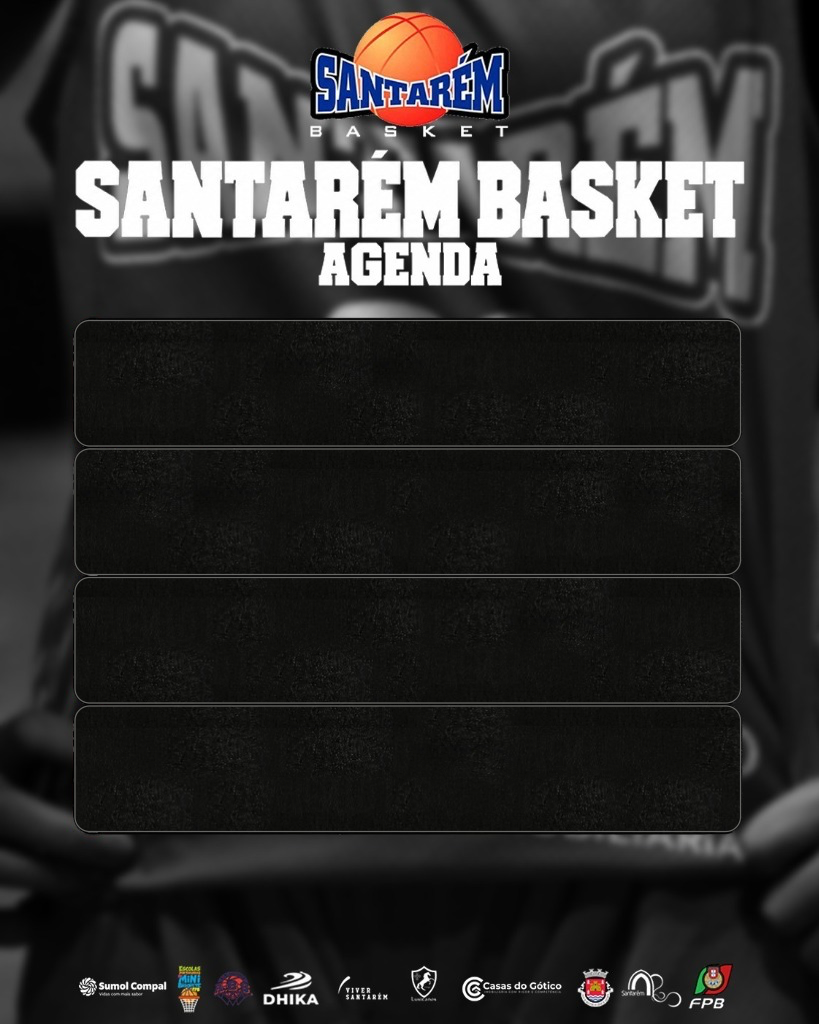
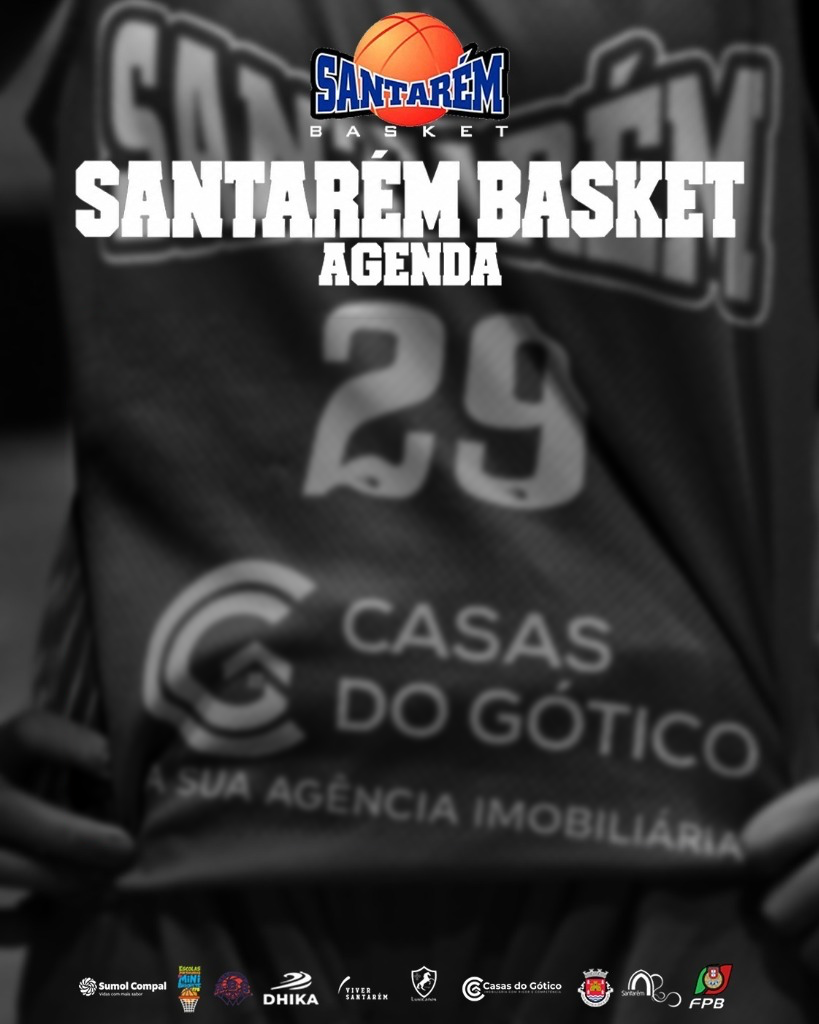
feat(posts-tool): reconstruct seamless Agenda background from source photo and remove empty trailing cards

diff --git a/posts-tool/js/renderer.js b/posts-tool/js/renderer.js
@@ -9,6 +9,7 @@ import { CONFIG } from './config.js';
 const TEMPLATE_URLS = {
   agenda: './assets/template-agenda-base.png',
   resultados: './assets/template-resultados-base.png',
+  cardTexture: './assets/card-texture.png',
 };
 
 // Coordenadas exatas dos 4 cartões no espaço lógico 819 × 1024
@@ -71,6 +72,7 @@ export async function preloadTemplates() {
   await Promise.all([
     loadImage(TEMPLATE_URLS.agenda),
     loadImage(TEMPLATE_URLS.resultados),
+    loadImage(TEMPLATE_URLS.cardTexture),
     ...fontLoads,
   ]);
   if (document.fonts && document.fonts.ready) {
@@ -119,13 +121,29 @@ function fitFontSize(ctx, text, { weight = 700, maxSize, minSize = 11, maxWidth,
 }
 
 /**
- * Desenha a moldura ativa do cartão (barra lateral vermelha ou branca + contorno fino).
+ * Desenha a moldura ativa do cartão (fundo escuro texturado + barra lateral vermelha/branca + contorno fino).
  */
-function drawActiveCardChrome(ctx, slot, isHome) {
-  // Barra lateral esquerda recortada nos cantos arredondados do cartão
+function drawActiveCardChrome(ctx, slot, isHome, cardTexture) {
+  // Sombra subtil por trás do cartão para contraste limpo sobre zonas claras do fundo
+  ctx.save();
+  ctx.shadowColor = 'rgba(0, 0, 0, 0.55)';
+  ctx.shadowBlur = 10;
+  ctx.shadowOffsetY = 2;
+  drawRoundedRectPath(ctx, slot.x, slot.y, slot.w, slot.h, CARD_RADIUS);
+  ctx.fillStyle = '#121210';
+  ctx.fill();
+  ctx.restore();
+
+  // Interior texturado (grunge original) + barra lateral esquerda recortados nos cantos arredondados
   ctx.save();
   drawRoundedRectPath(ctx, slot.x, slot.y, slot.w, slot.h, CARD_RADIUS);
   ctx.clip();
+  if (cardTexture) {
+    ctx.drawImage(cardTexture, slot.x, slot.y, slot.w, slot.h);
+  } else {
+    ctx.fillStyle = '#121210';
+    ctx.fillRect(slot.x, slot.y, slot.w, slot.h);
+  }
   ctx.fillStyle = isHome ? COLORS.barRed : COLORS.barWhite;
   ctx.fillRect(slot.x, slot.y, ACCENT_BAR_WIDTH, slot.h);
   ctx.restore();
@@ -195,8 +213,8 @@ function drawCategoryPills(ctx, escalaoStr, startX, pillY, isHome, fontFamily = 
 /**
  * Renderiza o conteúdo de um cartão de AGENDA.
  */
-function drawAgendaCard(ctx, slot, game, fontFamily = DEFAULT_FONT) {
-  drawActiveCardChrome(ctx, slot, game.casa);
+function drawAgendaCard(ctx, slot, game, cardTexture, fontFamily = DEFAULT_FONT) {
+  drawActiveCardChrome(ctx, slot, game.casa, cardTexture);
 
   const leftX = slot.x + 37; // x = 112
   const dividerX = 500.5;
@@ -321,8 +339,8 @@ function drawAgendaCard(ctx, slot, game, fontFamily = DEFAULT_FONT) {
 /**
  * Renderiza o conteúdo de um cartão de RESULTADOS.
  */
-function drawResultadosCard(ctx, slot, game, fontFamily = DEFAULT_FONT) {
-  drawActiveCardChrome(ctx, slot, game.casa);
+function drawResultadosCard(ctx, slot, game, cardTexture, fontFamily = DEFAULT_FONT) {
+  drawActiveCardChrome(ctx, slot, game.casa, cardTexture);
 
   const leftX = slot.x + 38; // x = 113
   const rightEdge = slot.x + slot.w - 18; // x = 722.5
@@ -397,7 +415,10 @@ function drawResultadosCard(ctx, slot, game, fontFamily = DEFAULT_FONT) {
  */
 export async function renderSlideToCanvas(canvas, { mode, games, fontFamily = DEFAULT_FONT }) {
   const safeMode = mode === 'resultados' ? 'resultados' : 'agenda';
-  const baseImg = await loadImage(TEMPLATE_URLS[safeMode]);
+  const [baseImg, cardTexture] = await Promise.all([
+    loadImage(TEMPLATE_URLS[safeMode]),
+    loadImage(TEMPLATE_URLS.cardTexture),
+  ]);
 
   canvas.width = CONFIG.EXPORT_WIDTH;
   canvas.height = CONFIG.EXPORT_HEIGHT;
@@ -420,9 +441,9 @@ export async function renderSlideToCanvas(canvas, { mode, games, fontFamily = DE
   const count = Math.min(games.length, slots.length);
   for (let i = 0; i < count; i++) {
     if (safeMode === 'resultados') {
-      drawResultadosCard(ctx, slots[i], games[i], fontFamily);
+      drawResultadosCard(ctx, slots[i], games[i], cardTexture, fontFamily);
     } else {
-      drawAgendaCard(ctx, slots[i], games[i], fontFamily);
+      drawAgendaCard(ctx, slots[i], games[i], cardTexture, fontFamily);
     }
   }
   ctx.restore();
